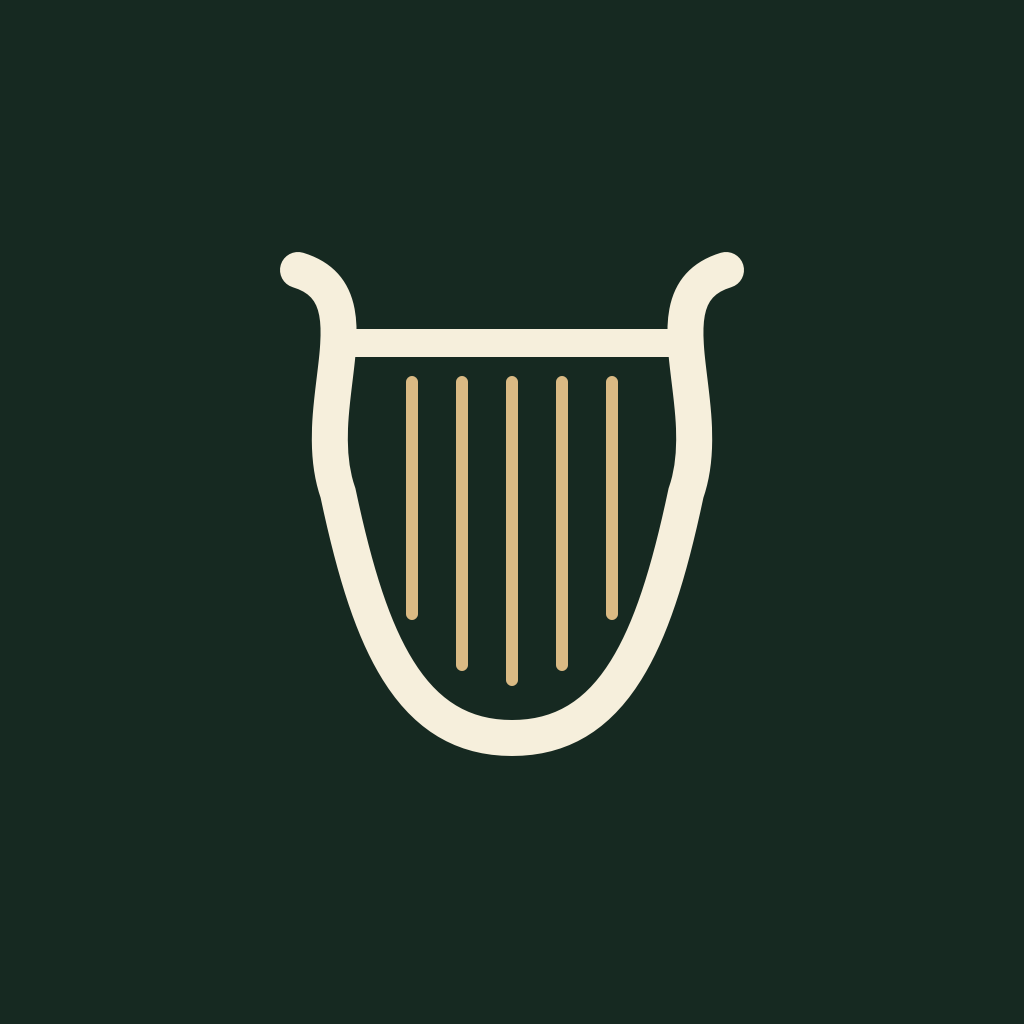
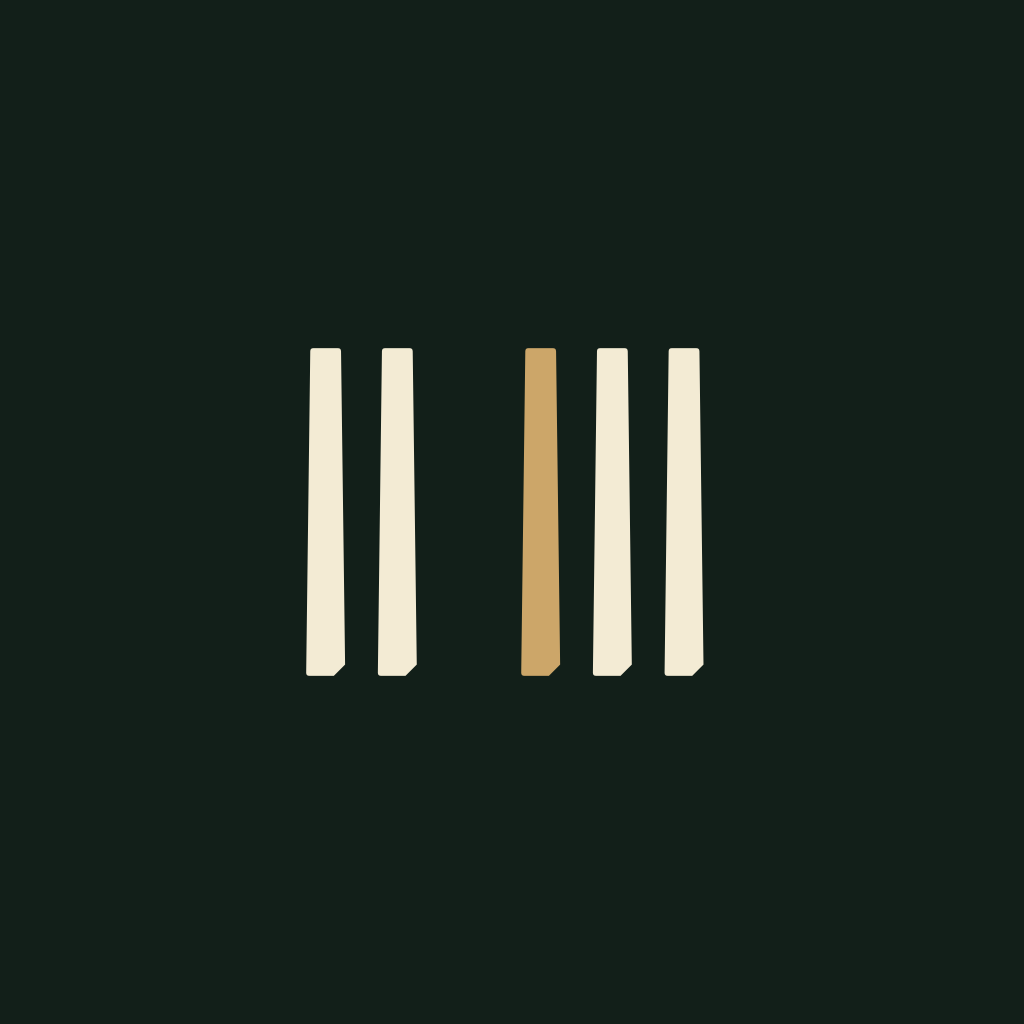
Apply approved Lyrae piano-key identity across the website

Changed region(s): [[0.25, 0.25, 0.75, 0.75]]

diff --git a/lyrae/style.css b/lyrae/style.css
@@ -2,4 +2,4 @@
 *{box-sizing:border-box}body{margin:0;background:var(--paper);color:var(--ink);font:17px/1.75 -apple-system,BlinkMacSystemFont,"Segoe UI",sans-serif}main{max-width:800px;margin:auto;padding:32px 24px 64px}a{color:var(--ink);text-underline-offset:4px}a:hover{color:var(--gold)}a:focus-visible{outline:3px solid var(--gold);outline-offset:5px}nav,footer{display:flex;align-items:center;gap:24px;flex-wrap:wrap}nav{border-bottom:1px solid var(--line);padding-bottom:24px}.brand{font:32px/1.2 Georgia,serif;letter-spacing:-1px;text-decoration:none;margin-right:auto}h1,h2{font-family:Georgia,"Times New Roman",serif;font-weight:400;line-height:1.15}h1{font-size:clamp(40px,8vw,64px);letter-spacing:-2px;margin:18px 0 24px}h2{font-size:30px;margin:44px 0 16px;letter-spacing:-.4px}p{margin:0 0 20px}.eyebrow{color:var(--gold);font-size:14px;letter-spacing:2px;text-transform:uppercase;margin-top:52px}.intro{font-size:21px;line-height:1.6;max-width:650px}.note{border-left:2px solid var(--gold);padding:12px 0 12px 20px;color:var(--muted)}.button{display:inline-block;background:var(--ink);color:var(--paper);text-decoration:none;border-radius:6px;padding:12px 22px;margin:4px 0 12px}.button:hover{background:#2b463a;color:white}li{padding-left:4px;margin-bottom:12px}ul{padding-left:22px}.muted{color:var(--muted)}footer{border-top:1px solid var(--line);margin-top:48px;padding-top:24px;font-size:14px}footer span{margin-right:auto}.skip{position:absolute;left:24px;top:-80px;background:var(--ink);color:white;padding:8px 16px}.skip:focus{top:8px}@media(max-width:450px){main{padding:24px 20px 40px}nav,footer{gap:16px}.brand{width:100%}h1{letter-spacing:-1px}.eyebrow{margin-top:36px}.intro{font-size:19px}}@media(prefers-reduced-motion:no-preference){a{transition:color .15s,background-color .15s}}
 
 @font-face{font-family:Cormorant;src:url('assets/cormorant.ttf') format('truetype');font-display:swap}
-:root{color-scheme:light dark}h1,h2,.brand{font-family:Cormorant,Georgia,serif}.brand{display:inline-flex;align-items:center;gap:12px;font-size:36px}.brand img{border-radius:12px}.landing main{max-width:1080px;padding:12px 7vw 64px}.hero{background:#121f19;color:#f3ebd4;position:relative;isolation:isolate;overflow:hidden}.hero:before{content:"";position:absolute;inset:0;z-index:-1;background:linear-gradient(90deg,#121f19ed 0%,#121f1970 70%),linear-gradient(0deg,#121f19,transparent 65%),url('assets/concert-hall.png') center 60%/cover}.hero nav{max-width:1200px;margin:auto;padding:24px 6vw;border:0}.hero a{color:#f3ebd4}.hero-copy{max-width:1200px;margin:auto;padding:65px 6vw 95px}.hero .eyebrow{margin:0 0 28px;color:#d0ad71;font-size:11px;letter-spacing:2.3px}.hero h1{font-size:clamp(58px,9vw,112px);line-height:.95;letter-spacing:-2px;max-width:800px;margin-bottom:32px}.hero h1 em{font-weight:400;color:#e4cfaa}.hero .intro{font-size:clamp(18px,2.3vw,23px);color:#e1dfd4;line-height:1.7}.hero .button{background:#f3ebd4;color:#121f19;border-radius:8px;margin-top:12px}.button span{margin-left:25px}.availability{font-size:12px;max-width:360px;line-height:1.6;color:#c0c3b9;margin-top:18px}.landing h2{font-size:clamp(34px,5vw,53px);letter-spacing:-.6px}.opening{padding:20px 0 45px;max-width:710px}.features{display:grid;grid-template-columns:repeat(3,1fr);gap:35px;padding:40px 0;border-block:1px solid var(--line)}.features h2{font-size:31px;margin:16px 0}.features p{font-size:16px;color:var(--muted)}.number{font:12px monospace;color:var(--gold)}.patron{padding:0 0 22px}.faq{margin:26px 0}details{border-bottom:1px solid var(--line);padding:18px 0}summary{cursor:pointer;font-size:18px;min-height:30px}details p{padding:15px 0 0;color:var(--muted);font-size:16px}.fine-print{font-size:13px;color:var(--muted);padding-top:25px}.landing footer{font-size:12px}.landing section[id]{scroll-margin-top:30px}@media(prefers-color-scheme:dark){:root{--paper:#121f19;--ink:#f3ebd4;--muted:#b2b9af;--line:#344238;--gold:#d0ad71}}@media(max-width:700px){.features{grid-template-columns:1fr;gap:18px}.hero-copy{padding-top:45px;padding-bottom:55px}.hero nav{gap:20px}.hero .brand{width:auto}.hero .eyebrow{font-size:10px}.landing main{padding-inline:7vw}.hero:before{background:linear-gradient(0deg,#121f19 0%,#121f1970 100%),url('assets/concert-hall.png') 60% center/cover}.hero h1{letter-spacing:-1px}.opening{padding-bottom:20px}}
+:root{color-scheme:light dark}h1,h2,.brand{font-family:Cormorant,Georgia,serif}.brand{display:inline-flex;align-items:center;gap:12px;font-size:36px}.brand picture,.brand img{display:block}.brand img{width:42px;height:36px;flex-shrink:0}.landing main{max-width:1080px;padding:12px 7vw 64px}.hero{background:#121f19;color:#f3ebd4;position:relative;isolation:isolate;overflow:hidden}.hero:before{content:"";position:absolute;inset:0;z-index:-1;background:linear-gradient(90deg,#121f19ed 0%,#121f1970 70%),linear-gradient(0deg,#121f19,transparent 65%),url('assets/concert-hall.png') center 60%/cover}.hero nav{max-width:1200px;margin:auto;padding:24px 6vw;border:0}.hero a{color:#f3ebd4}.hero-copy{max-width:1200px;margin:auto;padding:65px 6vw 95px}.hero .eyebrow{margin:0 0 28px;color:#d0ad71;font-size:11px;letter-spacing:2.3px}.hero h1{font-size:clamp(58px,9vw,112px);line-height:.95;letter-spacing:-2px;max-width:800px;margin-bottom:32px}.hero h1 em{font-weight:400;color:#e4cfaa}.hero .intro{font-size:clamp(18px,2.3vw,23px);color:#e1dfd4;line-height:1.7}.hero .button{background:#f3ebd4;color:#121f19;border-radius:8px;margin-top:12px}.button span{margin-left:25px}.availability{font-size:12px;max-width:360px;line-height:1.6;color:#c0c3b9;margin-top:18px}.landing h2{font-size:clamp(34px,5vw,53px);letter-spacing:-.6px}.opening{padding:20px 0 45px;max-width:710px}.features{display:grid;grid-template-columns:repeat(3,1fr);gap:35px;padding:40px 0;border-block:1px solid var(--line)}.features h2{font-size:31px;margin:16px 0}.features p{font-size:16px;color:var(--muted)}.number{font:12px monospace;color:var(--gold)}.patron{padding:0 0 22px}.faq{margin:26px 0}details{border-bottom:1px solid var(--line);padding:18px 0}summary{cursor:pointer;font-size:18px;min-height:30px}details p{padding:15px 0 0;color:var(--muted);font-size:16px}.fine-print{font-size:13px;color:var(--muted);padding-top:25px}.landing footer{font-size:12px}.landing section[id]{scroll-margin-top:30px}@media(prefers-color-scheme:dark){:root{--paper:#121f19;--ink:#f3ebd4;--muted:#b2b9af;--line:#344238;--gold:#d0ad71}}@media(max-width:700px){.features{grid-template-columns:1fr;gap:18px}.hero-copy{padding-top:45px;padding-bottom:55px}.hero nav{gap:20px}.hero .brand{width:auto}.hero .eyebrow{font-size:10px}.landing main{padding-inline:7vw}.hero:before{background:linear-gradient(0deg,#121f19 0%,#121f1970 100%),url('assets/concert-hall.png') 60% center/cover}.hero h1{letter-spacing:-1px}.opening{padding-bottom:20px}}

diff --git a/lyrae/index.html b/lyrae/index.html
@@ -1,6 +1,6 @@
 <!doctype html>
-<html lang="en"><head><meta charset="utf-8"><meta name="viewport" content="width=device-width,initial-scale=1"><title>Lyrae — Your imagination, set to classical music</title><meta name="description" content="Describe a feeling, scene or memory. Lyrae turns your imagination into original classical music with AI. Made for iPhone and iPad."><link rel="canonical" href="https://zluan.io/lyrae/"><meta property="og:title" content="Lyrae — A room for your imagination"><meta property="og:description" content="Original classical music, imagined by you."><meta property="og:url" content="https://zluan.io/lyrae/"><meta property="og:image" content="https://zluan.io/lyrae/assets/concert-hall.png"><meta name="twitter:card" content="summary_large_image"><meta name="theme-color" content="#121f19"><link rel="icon" href="assets/lyrae-icon.svg" type="image/svg+xml"><link rel="apple-touch-icon" href="assets/lyrae-icon.png"><link rel="stylesheet" href="style.css"></head>
-<body class="landing"><a class="skip" href="#content">Skip to content</a><header class="hero"><nav aria-label="Lyrae"><a class="brand" href="/lyrae/"><img src="assets/lyrae-icon.svg" width="48" height="48" alt="">Lyrae</a><a href="#about">The app</a><a href="#support">Support</a></nav><div class="hero-copy" id="content"><p class="eyebrow">Original classical music · Created with AI</p><h1>A room for your<br><em>imagination.</em></h1><p class="intro">A feeling. A memory. A world only you can see.<br>Give it a few words. Let Lyrae find the music.</p><a class="button" href="#about">Step inside <span aria-hidden="true">↗</span></a><p class="availability">For iPhone and iPad. Public downloads are paused while we prepare Lyrae.</p></div></header>
+<html lang="en"><head><meta charset="utf-8"><meta name="viewport" content="width=device-width,initial-scale=1"><title>Lyrae — Your imagination, set to classical music</title><meta name="description" content="Describe a feeling, scene or memory. Lyrae turns your imagination into original classical music with AI. Made for iPhone and iPad."><link rel="canonical" href="https://zluan.io/lyrae/"><meta property="og:title" content="Lyrae — A room for your imagination"><meta property="og:description" content="Original classical music, imagined by you."><meta property="og:url" content="https://zluan.io/lyrae/"><meta property="og:image" content="https://zluan.io/lyrae/assets/concert-hall.png"><meta name="twitter:card" content="summary_large_image"><meta name="theme-color" content="#121f19"><link rel="icon" href="assets/lyrae-icon.svg?v=keys-1" type="image/svg+xml"><link rel="apple-touch-icon" href="assets/lyrae-icon.png?v=keys-1"><link rel="stylesheet" href="style.css"></head>
+<body class="landing"><a class="skip" href="#content">Skip to content</a><header class="hero"><nav aria-label="Lyrae"><a class="brand" href="/lyrae/"><img src="assets/lyrae-mark.svg?v=keys-1" width="42" height="36" alt="">Lyrae</a><a href="#about">The app</a><a href="#support">Support</a></nav><div class="hero-copy" id="content"><p class="eyebrow">Original classical music · Created with AI</p><h1>A room for your<br><em>imagination.</em></h1><p class="intro">A feeling. A memory. A world only you can see.<br>Give it a few words. Let Lyrae find the music.</p><a class="button" href="#about">Step inside <span aria-hidden="true">↗</span></a><p class="availability">For iPhone and iPad. Public downloads are paused while we prepare Lyrae.</p></div></header>
 <main><section id="about" class="opening"><p class="eyebrow">Your imagination, set to music</p><h2>Begin with something<br>only you could imagine.</h2><p class="intro">A quiet piano on a rainy afternoon. Strings with a sense of wonder. An orchestra for a new beginning.</p><p>Describe a feeling, scene or memory, and Lyrae uses AI to compose an original classical piece. No musical training needed. Follow your own idea, or take a little inspiration from a classical composer.</p></section>
 <section class="features"><article><span class="number">01</span><h2>Make it yours.</h2><p>Choose piano, strings or orchestra. Shape the mood and tempo, with an approximate length of one to three minutes. Keep the details simple, or explore the studio settings.</p></article><article><span class="number">02</span><h2>Leave room to listen.</h2><p>Once your piece is accepted in the cloud, you can close the app. Allow notifications when you first compose to hear when it is ready. Delivery depends on your device settings and connection.</p></article><article><span class="number">03</span><h2>Keep what moves you.</h2><p>Save recordings for offline listening. Keep them private, publish them in Listen, or send a listening link that plays in a browser. Discover studio selections and pieces liked by real listeners.</p></article></section>
 <section class="patron"><p class="eyebrow">Lyrae Patron</p><h2>A little more room to create.</h2><p>Start with up to <strong>3 complimentary compositions</strong>. Eligible subscribers can try Patron free for <strong>3 days</strong>, sharing that same three-composition allowance. Starting a trial does not refill credits already used.</p><p>Paid membership includes <strong>40 compositions per UTC calendar month</strong>, plus original AI cover art for new pieces. Unused compositions do not roll over. Free and trial pieces use curated artwork. Listening remains available without a subscription.</p><p class="muted">US plans: $7.99/month or $79.99/year. The app shows your local price and offer eligibility before purchase. Plans renew automatically unless canceled in Apple Account settings. Saved recordings stay after cancellation.</p></section>

diff --git a/lyrae/terms/index.html b/lyrae/terms/index.html
@@ -1,6 +1,6 @@
 <!doctype html>
-<html lang="en"><head><meta charset="utf-8"><meta name="viewport" content="width=device-width,initial-scale=1"><meta name="description" content="Lyrae subscription, music creation, and community terms."><title>Lyrae — Terms</title><link rel="canonical" href="https://zluan.io/lyrae/terms/"><link rel="stylesheet" href="../style.css"><link rel="icon" href="/lyrae/assets/lyrae-icon.svg" type="image/svg+xml"></head>
-<body><a class="skip" href="#content">Skip to content</a><main><nav aria-label="Lyrae"><a class="brand" href="/lyrae/">Lyrae</a><a href="/lyrae/#support">Support</a><a href="/lyrae/privacy/">Privacy</a></nav>
+<html lang="en"><head><meta charset="utf-8"><meta name="viewport" content="width=device-width,initial-scale=1"><meta name="description" content="Lyrae subscription, music creation, and community terms."><title>Lyrae — Terms</title><link rel="canonical" href="https://zluan.io/lyrae/terms/"><link rel="stylesheet" href="../style.css"><link rel="icon" href="/lyrae/assets/lyrae-icon.svg?v=keys-1" type="image/svg+xml"></head>
+<body><a class="skip" href="#content">Skip to content</a><main><nav aria-label="Lyrae"><a class="brand" href="/lyrae/"><picture><source media="(prefers-color-scheme:dark)" srcset="/lyrae/assets/lyrae-mark.svg?v=keys-1"><img src="/lyrae/assets/lyrae-mark-ink.svg?v=keys-1" width="42" height="36" alt=""></picture>Lyrae</a><a href="/lyrae/#support">Support</a><a href="/lyrae/privacy/">Privacy</a></nav>
 <article id="content"><p class="eyebrow">A room for your imagination</p><h1>Terms.</h1><p class="muted">Updated November 24, 2026</p>
 <p>Lyrae is developed by Zhaonian Luan. The app is licensed under <a href="https://www.apple.com/legal/internet-services/itunes/dev/stdeula/">Apple’s Standard Licensed Application End User License Agreement</a>. This page explains Lyrae’s service and subscription rules. For assistance, contact <a href="mailto:jerry@zluan.io">jerry@zluan.io</a>.</p>
 <h2>Creating and listening.</h2><p>You must be 18 or older to use Lyrae’s music creation service. Sign-in is required in the app; shared listening links work without an account. Creation requires an internet connection and a supported region. Once accepted, a request runs in the cloud and the finished recording is saved to your private library. Failed creation requests return your composition credit. Already downloaded music can be played offline.</p>

diff --git a/lyrae/privacy/index.html b/lyrae/privacy/index.html
@@ -1,6 +1,6 @@
 <!doctype html>
-<html lang="en"><head><meta charset="utf-8"><meta name="viewport" content="width=device-width,initial-scale=1"><meta name="description" content="How Lyrae handles your musical prompts, recordings, sign-in, cloud sharing, and subscription information."><title>Lyrae — Privacy policy</title><link rel="canonical" href="https://zluan.io/lyrae/privacy/"><link rel="stylesheet" href="../style.css"><link rel="icon" href="/lyrae/assets/lyrae-icon.svg" type="image/svg+xml"></head>
-<body><a class="skip" href="#content">Skip to content</a><main><nav aria-label="Lyrae"><a class="brand" href="/lyrae/">Lyrae</a><a href="/lyrae/#support">Support</a><a href="/lyrae/terms/">Terms</a></nav>
+<html lang="en"><head><meta charset="utf-8"><meta name="viewport" content="width=device-width,initial-scale=1"><meta name="description" content="How Lyrae handles your musical prompts, recordings, sign-in, cloud sharing, and subscription information."><title>Lyrae — Privacy policy</title><link rel="canonical" href="https://zluan.io/lyrae/privacy/"><link rel="stylesheet" href="../style.css"><link rel="icon" href="/lyrae/assets/lyrae-icon.svg?v=keys-1" type="image/svg+xml"></head>
+<body><a class="skip" href="#content">Skip to content</a><main><nav aria-label="Lyrae"><a class="brand" href="/lyrae/"><picture><source media="(prefers-color-scheme:dark)" srcset="/lyrae/assets/lyrae-mark.svg?v=keys-1"><img src="/lyrae/assets/lyrae-mark-ink.svg?v=keys-1" width="42" height="36" alt=""></picture>Lyrae</a><a href="/lyrae/#support">Support</a><a href="/lyrae/terms/">Terms</a></nav>
 <article id="content"><p class="eyebrow">Your listening room</p><h1>Privacy policy.</h1><p class="muted">Updated November 24, 2026</p><p>Lyrae is developed by Zhaonian Luan. This policy describes the information used by the iPhone and iPad app and this support website. Contact <a href="mailto:jerry@zluan.io?subject=Lyrae%20privacy">jerry@zluan.io</a> for privacy questions or requests.</p><p class="note">Lyrae was previously named Cadenza. Your account, saved recordings and subscription remain the same. Apple and Google sign-in are supported; Facebook sign-in is currently unavailable. Feature availability can vary by app version.</p>
 <h2>Your privacy at a glance.</h2>
 <ul>
